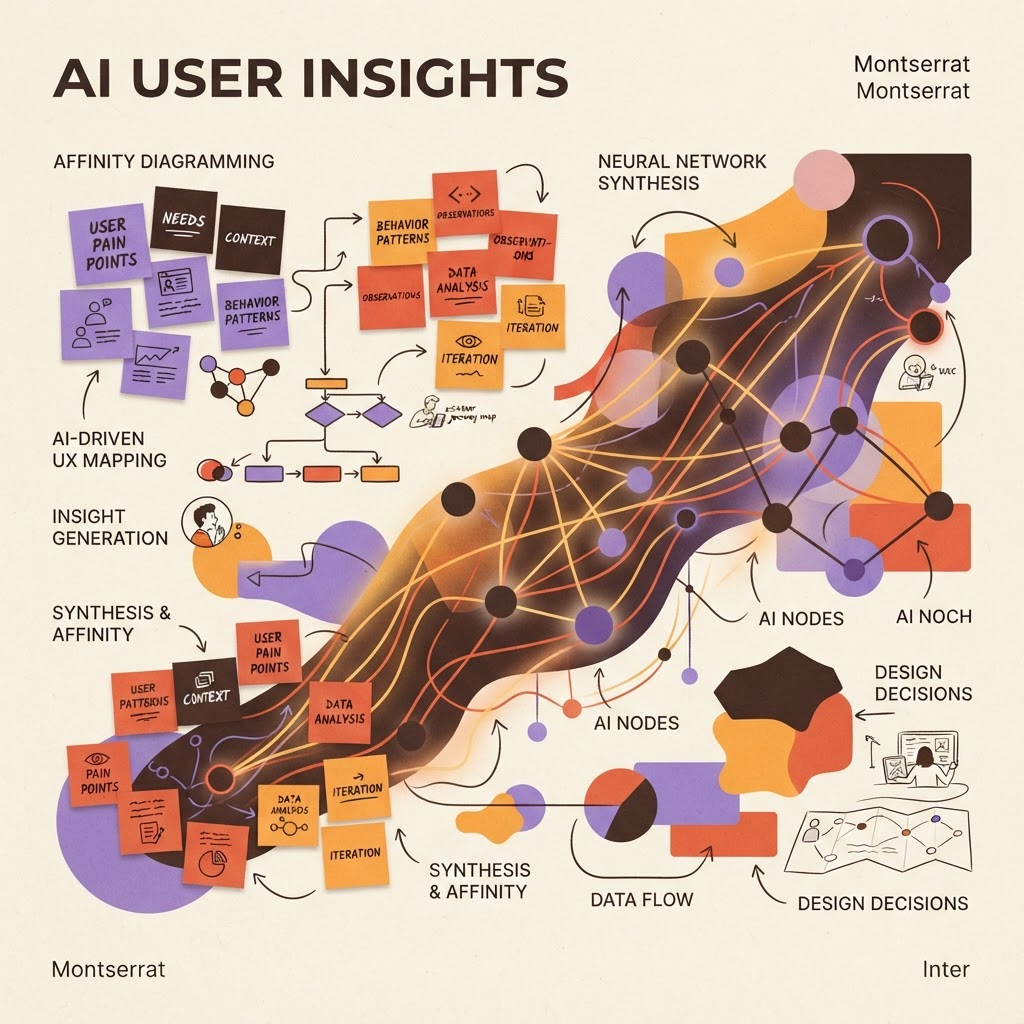
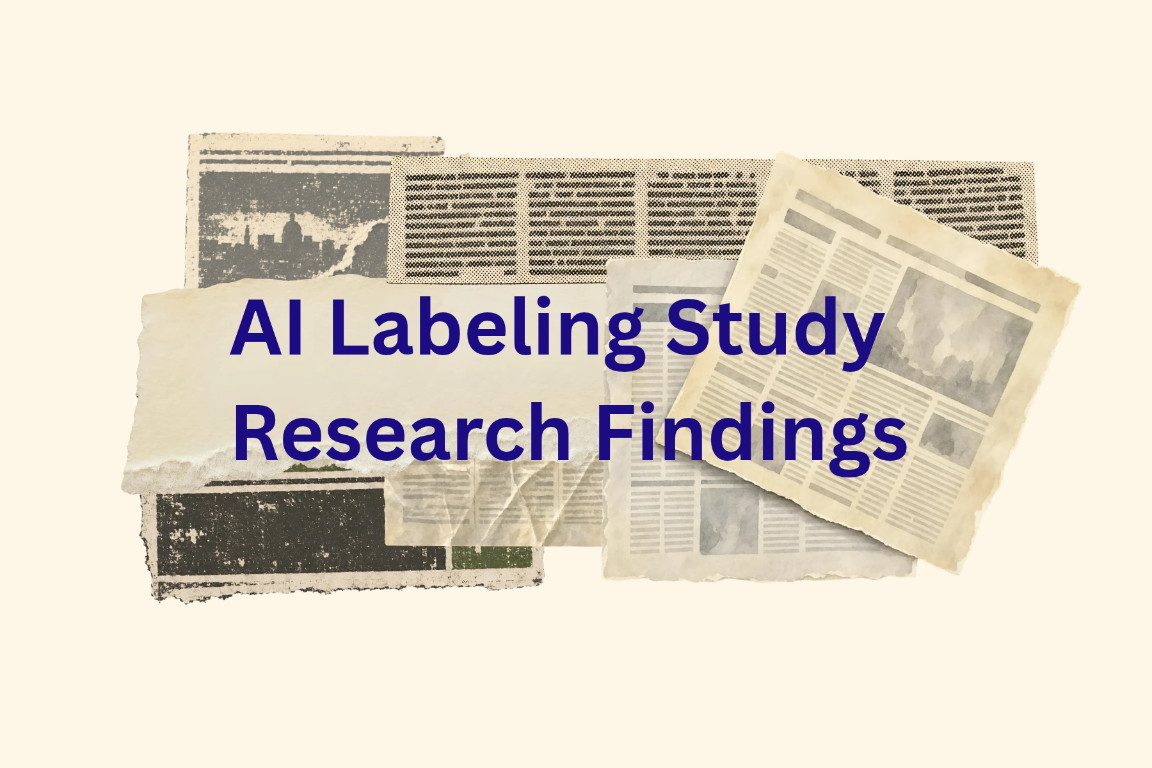
modified:   index.html 	modified:   projects/ai-research/index.html 	modified:   projects/guide-to-iceland/index.html 	modified:   public/images/ai-research.png 	modified:   styles.css

diff --git a/projects/ai-research/index.html b/projects/ai-research/index.html
@@ -5,7 +5,7 @@
     <meta name="viewport" content="width=device-width, initial-scale=1">
     <meta name="description" content="An in-progress research project studying how people build trust with AI tools.">
     <meta name="theme-color" content="#fffecb">
-    <title>AI Research — Eunice Kim</title>
+    <title>AI Labeling Study Research Findings — Eunice Kim</title>
     <link rel="icon" href="../../public/eunice-tab-logo.png" type="image/png">
     <link rel="stylesheet" href="../../styles.css">
     <script src="../../site.js" defer></script>
@@ -24,10 +24,10 @@
     <main class="case-study">
       <a class="back-link" href="../../#projects">← <span>Back to projects</span></a>
       <header class="case-hero">
-        <div class="case-cover"><img src="../../public/images/ai-research.png" alt="AI trust research project artwork"></div>
+        <div class="case-cover"><img src="../../public/images/ai-research.png" alt="AI Labeling Study Research Findings artwork"></div>
         <div class="case-heading">
           <span class="project-category">User Research</span>
-          <h1>AI Labeling Study Research Project</h1>
+          <h1>AI Labeling Study Research Findings</h1>
           <p class="design-question">How do people interpret authorship attribution disclosures (AI alone vs. AI-human co-authorship) in different news contexts?</p>
           <p class="design-question">How do these interpretations influence people's judgments of news credibility and their intentions to engage with the content?</p>
 
@@ -46,14 +46,23 @@
         </dl>
       </section>
 
-      <div class="case-sections">
-        <section class="case-section">
-          <div class="case-section-copy">
-            <h2>Research focus</h2>
-            <p>The project examines peoples current perception of AI and how they navigate information regarding AI generated news. This research is an ongoing effort to understand the complexities of AI interaction in media consumption to which I have contributed at the beginning stages of.</p>
-          </div>
-          <div class="case-section-image contain"><img src="../../public/images/ai-research.png" alt="AI trust research project artwork"></div>
-        </section>
+      <div class="research-layout" aria-label="Research goals and key questions">
+        <div class="research-column">
+          <h2>Research Goals</h2>
+          <ul class="research-list">
+            <li>Gain an understanding of the current perception of AI.</li>
+            <li>Recruit people for interviews who are familiar with AI and active on social media.</li>
+            <li>Analyze data effectively to figure out how to use and showcase AI ethically.</li>
+          </ul>
+        </div>
+
+        <div class="research-column">
+          <h2>Key Research Questions</h2>
+          <ul class="research-list">
+            <li>How do people interpret authorship attribution disclosures (AI alone vs. AI-human co-authorship) in different news contexts?</li>
+            <li>How do these interpretations influence people's judgments of news credibility and their intentions to engage with the content?</li>
+          </ul>
+        </div>
       </div>
 
       <a class="next-project" href="../melting-pot/">

diff --git a/index.html b/index.html
@@ -93,12 +93,12 @@
             <a class="project-card-link" href="./projects/ai-research/">
               <div class="project-info">
                 <span class="project-category">User Research</span>
-                <h3 class="project-title">AI Labeling Study Research Project</h3>
+                <h3 class="project-title">AI Labeling Study Research Findings</h3>
                 <p class="project-blurb">An ongoing research project exploring how people build trust with AI tools and where those experiences break down.</p>
                 <span class="project-cta">View case study ↗</span>
               </div>
               <div class="project-visual">
-                <img src="public/images/ai-research.png" alt="AI trust research project artwork" loading="lazy">
+                <img src="public/images/ai-research.png" alt="AI Labeling Study Research Findings artwork" loading="lazy">
               </div>
             </a>
           </li>

diff --git a/styles.css b/styles.css
@@ -673,6 +673,46 @@ h3,
   line-height: 1.8;
 }
 
+.research-layout {
+  display: grid;
+  grid-template-columns: minmax(0, 1fr) minmax(0, 1.1fr);
+  gap: 4rem;
+  margin-top: 4rem;
+  padding-top: 1rem;
+}
+
+.research-column {
+  display: grid;
+  align-content: start;
+}
+
+.research-column h2 {
+  margin: 0;
+  font-size: clamp(2.6rem, 3.1vw, 4.3rem);
+  font-weight: 400;
+  letter-spacing: -0.06em;
+  line-height: 1;
+  color: var(--text);
+}
+
+.research-list {
+  margin: 2rem 0 0;
+  padding-left: 2rem;
+  color: rgb(66 62 59 / 90%);
+  font-size: clamp(1.15rem, 1.45vw, 1.55rem);
+  line-height: 1.55;
+  letter-spacing: -0.02em;
+}
+
+.research-list li {
+  margin-bottom: 1.25rem;
+  padding-left: 0.35rem;
+}
+
+.research-list li:last-child {
+  margin-bottom: 0;
+}
+
 .case-meta {
   display: grid;
   align-content: start;

diff --git a/projects/guide-to-iceland/index.html b/projects/guide-to-iceland/index.html
@@ -72,7 +72,7 @@
       </div>
 
       <a class="next-project" href="../ai-research/">
-        <span><small>Next project</small><h2>AI Research</h2></span><span class="next-arrow" aria-hidden="true">→</span>
+        <span><small>Next project</small><h2>AI Labeling Study Research Findings</h2></span><span class="next-arrow" aria-hidden="true">→</span>
       </a>
     </main>
 
